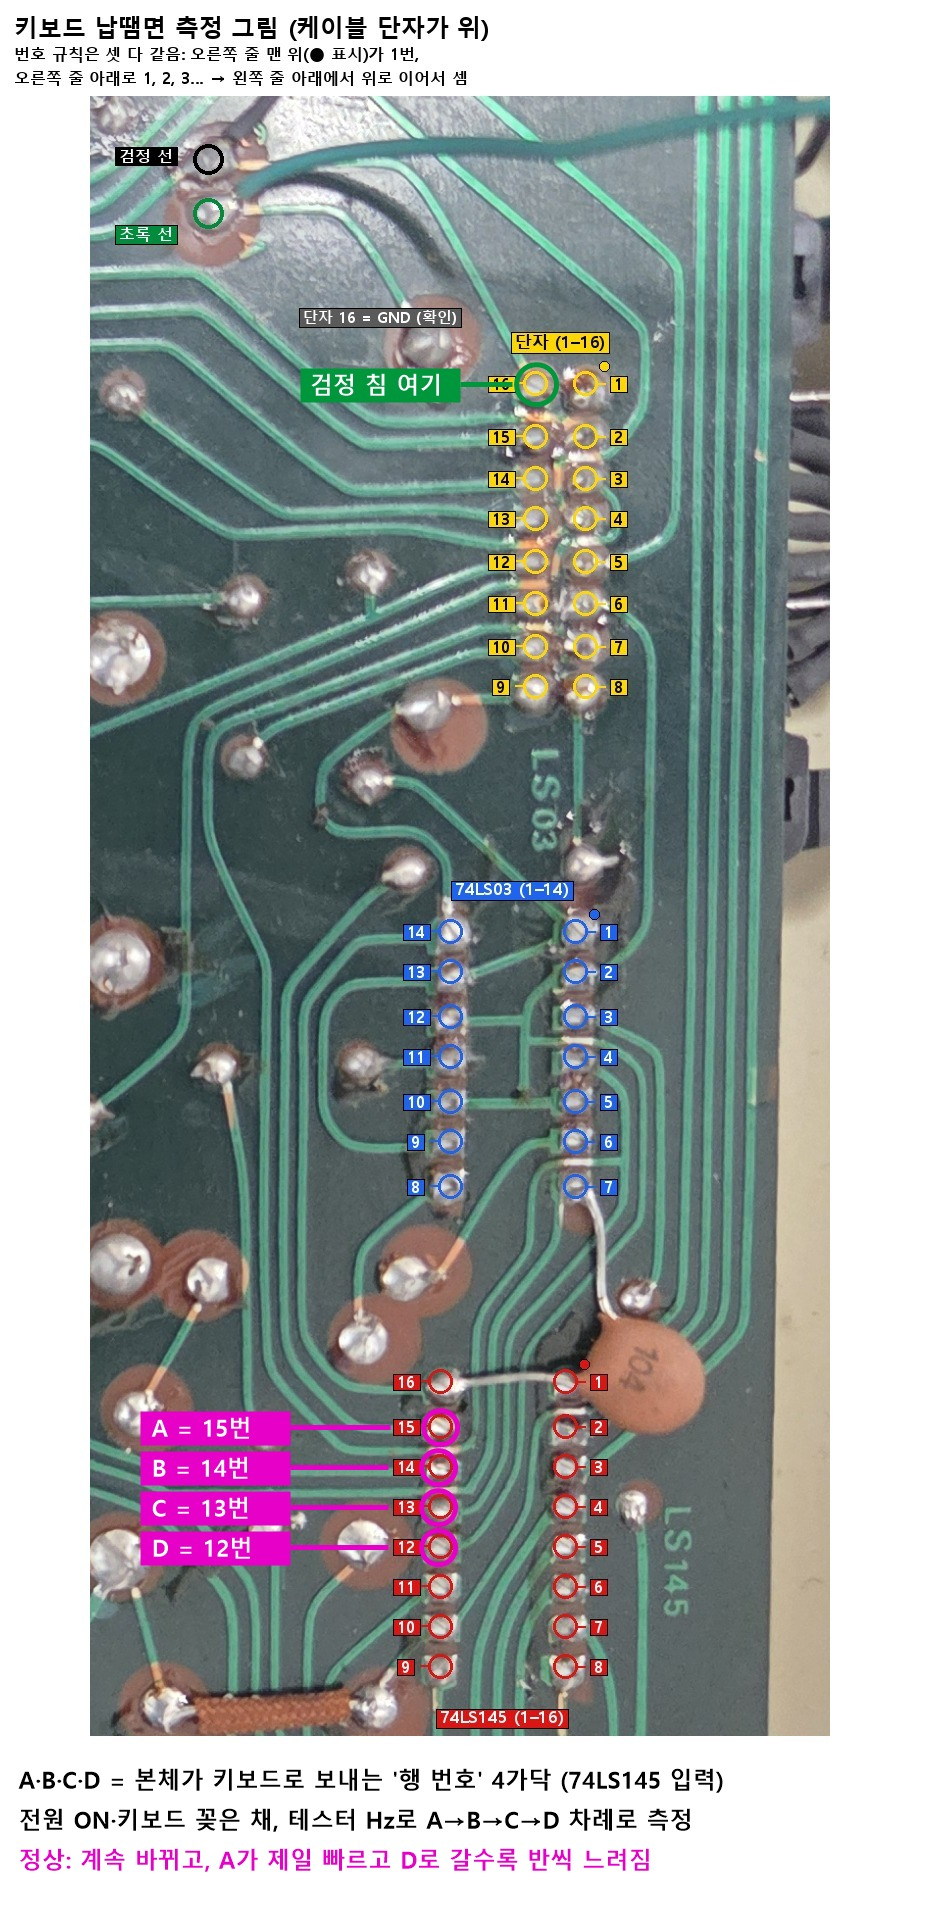
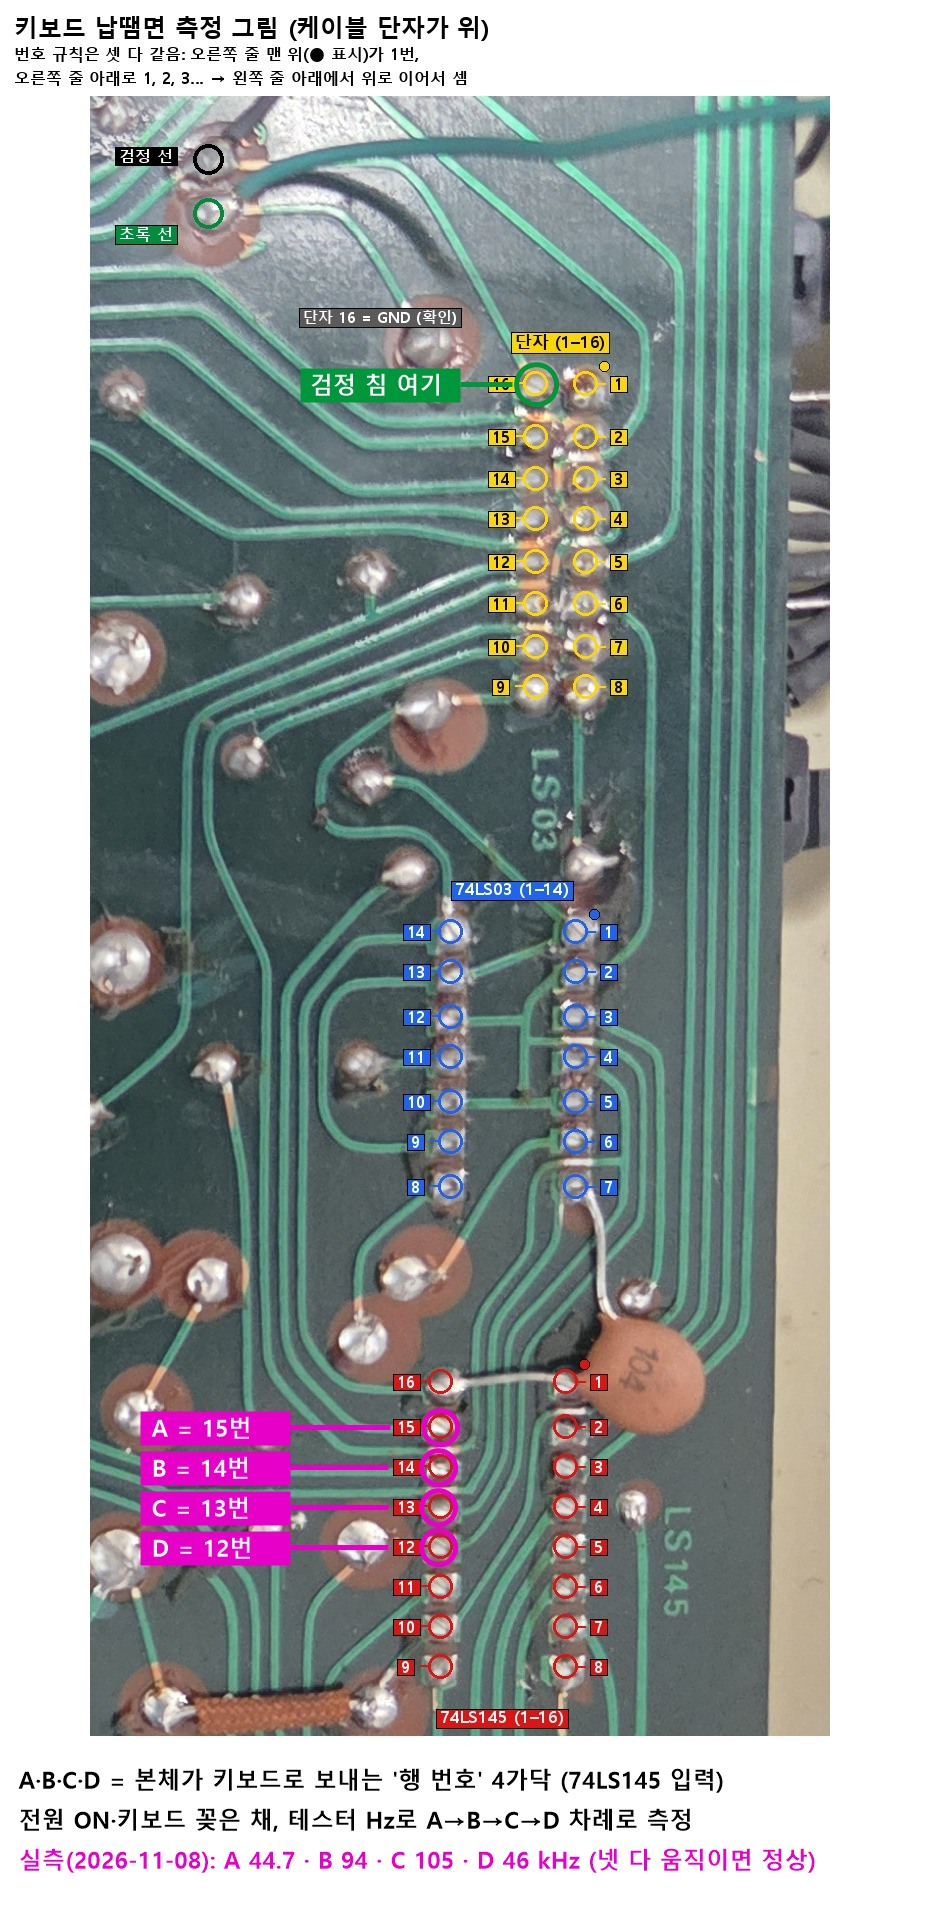
필요 없는 분석 그림 정리: 틀린 값·끝난 검사용 그림 4장과 생성 스크립트 2개 삭제, kbd_scan_abcd 안내 문구를 실측값으로 수정, 문서 링크 정리

Changed region(s): [[0.0309, 0.9596, 0.8638, 0.9906]]

diff --git a/docs/08-repair-log.md b/docs/08-repair-log.md
@@ -31,7 +31,7 @@
 - 키 매트릭스처럼 **아주 짧은 펄스는 Hz로 못 셈**(0Hz로 나옴). 대신 **DC V로 누름/뗌 평균 전압 비교**가 확실함.
 - 74LS145 출력은 오픈 컬렉터 → 키를 안 누르면 떠 있어서 값이 의미 없음.
 - 테스터 **"O.L"** = 안 통함(측정 범위 초과). 0Ω과 반대.
-- 측정 그림: 스캔 신호 [`analysis/kbd_scan_abcd.jpg`](../analysis/kbd_scan_abcd.jpg), 전원 [`analysis/kbd_vcc_check.jpg`](../analysis/kbd_vcc_check.jpg), RESET 접점 [`analysis/kbd_reset_stuck_check.jpg`](../analysis/kbd_reset_stuck_check.jpg).
+- 측정 그림: 스캔 신호·74LS145 핀 위치 [`analysis/kbd_scan_abcd.jpg`](../analysis/kbd_scan_abcd.jpg). (전원·RESET 접점 측정용 그림과 케이블 검사표·옛 결선표는 틀린 값/끝난 검사라 2026-11-08 삭제, git 기록에 있음)
 
 ### 같은 날 전원 켜짐 증상
 
@@ -62,7 +62,7 @@
     - **짝이 안 나온 것**: 구멍 2(재확인 필요)·7·14 / 키보드 단자 **1·10·11·15**. → 단자 10(RESET 열)·11(추가 선택선)·1·15가 케이블로 본체에 안 가는 것으로 보임 = **RESET과 그 열의 키가 안 먹는 이유와 맞음** (추정). 구멍 2·7·14 뒤에 전선이 붙어 있는지(붙어 있으면 끊김) 확인 필요.
     - **커넥터 뒷면 사진 (사용자)**: [`232814`](../photos/keyboard/20261107_232814_cable-connector-back_text-side-row.jpg) 글자(4K26S) 면 쪽 줄(구멍 1–8) = **8칸 모두 전선 있음**. [`232804`](../photos/keyboard/20261107_232804_cable-connector-back_row-bare-pins.jpg)·[`232822`](../photos/keyboard/20261107_232822_cable-connector-back_row-bare-pins-2.jpg) 반대쪽 줄(구멍 9–16) = **2칸이 전선 없이 핀만** (줄 한쪽 끝 1칸 + 그 끝에서 6번째 1칸) → 구멍 번호로는 **9와 14**로 판단 (16·11은 단자와 통전 확인됐으므로 반대 방향은 불가). 사진 방향 기준 판단, 확인 필요.
     - 판단: 구멍 **14 = 원래 선 없음**, 구멍 9 = GND(8과 J10에서 같은 GND라 선 없어도 됨). 구멍 **2·7 = 전선은 있는데 키보드 단자와 안 통함 → 끊김 가능성 높음**. 남는 키보드 단자 1·10·11·15 중 2개가 이 두 선일 것으로 추정. 나머지 2개는 케이블에 선 자체가 없음(가닥 수 부족) — 원래 안 쓰는 선인지 미확인.
-    - **규칙 발견**: 측정 12개 중 10개가 **단자 번호 = 구멍 번호 + 8 (16 넘으면 −16)**. 이 규칙으로 예상: **구멍 2 ↔ 단자 10(RESET 열), 구멍 7 ↔ 단자 15** (둘 다 뒤에 선 있음 → 끊김 추정). 예외: 구멍 3 ↔ 단자 6(행 D, 규칙상 11), 구멍 14 빈칸(규칙상 6). → D가 원래 자리(구멍 14)가 아닐 수 있음, 확인 필요. 결선표 [`analysis/kbd_cable_wiring_expected.jpg`](../analysis/kbd_cable_wiring_expected.jpg).
+    - **규칙 발견**: 측정 12개 중 10개가 **단자 번호 = 구멍 번호 + 8 (16 넘으면 −16)**. 이 규칙으로 예상: **구멍 2 ↔ 단자 10(RESET 열), 구멍 7 ↔ 단자 15** (둘 다 뒤에 선 있음 → 끊김 추정). 예외: 구멍 3 ↔ 단자 6(행 D, 규칙상 11), 구멍 14 빈칸(규칙상 6). → D가 원래 자리(구멍 14)가 아닐 수 있음, 확인 필요. (이 규칙에 따른 옛 결선표 그림은 결론이 틀려 삭제. 맞는 결선은 05 문서)
     - **키보드 쪽 커넥터 뒷면 사진 (사용자)**: [`233618`](../photos/keyboard/20261107_233618_kbd-side-connector_back-pins.jpg), [`233729`](../photos/keyboard/20261107_233729_kbd-side-connector_back-pins-2.jpg). 옆에서 본 줄에서 **전선 없는 핀 2개**: 맨 위 칸과 위에서 6번째 칸 → 위치로 보아 **단자 1과 단자 11** (측면 사진이라 줄 판정은 추정). → 단자 1·11 = 케이블에 선 없음 (본체 쪽 빈칸 구멍 9·14와 짝), **단자 10·15에는 선이 있음** → 본체 쪽 구멍 2·7에도 선이 있는데 안 통함 = **케이블 안에서 두 가닥 끊김으로 판단 (사용자도 같은 결론)**. 색깔로 양 끝 확인하면 확정.
     - **2026-11-08 사용자: "케이블에는 문제 없다"** → 구멍 2↔단자 10, 구멍 7↔단자 15도 통하는 것으로 이해 (확인 필요). 그러면 14개 중 13개가 규칙과 맞고 **구멍 3↔단자 6(행 D)만 예외**. 구멍 3과 14는 **같은 줄 옆 칸** → D 선을 옆 핀(3)에 잘못 단 것으로 추정 (**이후 철회** — 원래 짝 키보드의 공장 배선이고 키보드 정상 동작 확인. 안내 그림 `kbd_cable_d_wire_move.jpg`는 혼동을 막기 위해 삭제). 맞다면 행 번호가 틀어져 RESET(행 2)·대부분 키가 안 먹는 증상과 일치. 확인: 전원 켠 상태에서 구멍 14 뒤 맨 핀의 Hz (행 A와 비슷하게 나오면 확정).
     - **2026-11-08 사용자 사진·설명**: 케이블 16핀 중 **14핀은 전선 연결, 2핀만 비어 있는 상태 그대로였음**(누가 손댄 흔적 아님). 사진 [`전체`](../photos/keyboard/20261108_081101_cable-whole-coiled.jpg), [`양쪽 커넥터`](../photos/keyboard/20261108_081800_cable-both-connectors.jpg), [`본체 쪽 커넥터, 빈 핀 2개`](../photos/keyboard/20261108_081926_board-side-connector_2-bare-pins.jpg). 빈 핀 2개는 앞서 측정한 구멍 9·14와 같은 줄 위치로 보이나, 비스듬한 사진이라 어느 줄(왼/오)인지는 사진만으로 확정 못 함. 케이블이 수작업 배선이라 "처음부터 D가 3번"이었을 수도 있음 → 이 키보드가 원래 이 본체 짝인지 모르므로, 땜질 옮기기 전에 **본체 J10 쪽에서 어느 핀이 D를 내보내는지** 먼저 측정해서 결정.
@@ -71,13 +71,13 @@
     - **2026-11-08 사용자 재측정: 구멍 2↔단자 10, 구멍 7↔단자 15 모두 통함** → 2026-11-07의 "두 가닥 끊김" 판단은 측정 실수였던 것으로 정정. **케이블 14가닥 모두 정상 (확정).**
     - **2026-11-08 74LS145 입력 Hz (전원 ON, 키보드 연결, 검정 침 단자 16, 사용자)**: 15번(A) 44.7 kHz · 14번(B) 94 kHz · 13번(C) 105 kHz · 12번(D) 46 kHz. 그림 [`analysis/kbd_scan_abcd.jpg`](../analysis/kbd_scan_abcd.jpg). → **4가닥 모두 움직임 = 본체가 스캔 신호를 보내고 케이블로 잘 도착함.** 값이 반씩 줄지 않는 것은 단순 2진 카운터가 아니거나(주소선 등에서 가져옴) 테스터 Hz가 불규칙 신호를 잘못 세는 것일 수 있음 — 판단 보류. 다음: 74LS145 16번 +5V(DC), 출력 핀 1–7·9–11 Hz.
     - **2026-11-08 74LS145 16번(Vcc) = 0V (사용자, 검정 침 단자 16)** → 키보드 칩에 전원이 안 들어감. 출력이 안 나오니 매트릭스 키 전체가 안 먹는 증상과 일치 (Disp는 따로 배선된 키라 동작한다고 보면 설명됨). 16번 핀에 흰 점퍼선이 붙어 있음(사진상 104 콘덴서 쪽으로 감) → 점퍼선 납땜 불량이 1순위 후보. 확인: 단자 9(+5V) 전압, 단자 9↔16번 핀 통전, 74LS03 14번 전압.
-    - **정정 (2026-11-08 재측정, 사용자)**: 74LS145 16번 **4.9V**, 74LS03 14번 **4.9V**, 단자 9 **4.9V** → 앞의 0V는 측정 실수. **키보드 칩 전원 정상.** 그림 [`analysis/kbd_vcc_check.jpg`](../analysis/kbd_vcc_check.jpg). 다음: 74LS145 출력 1–7·9–11번 Hz.
+    - **정정 (2026-11-08 재측정, 사용자)**: 74LS145 16번 **4.9V**, 74LS03 14번 **4.9V**, 단자 9 **4.9V** → 앞의 0V는 측정 실수. **키보드 칩 전원 정상.** 다음: 74LS145 출력 1–7·9–11번 Hz.
     - **74LS145 출력 1–7·9–11번 = 모두 약 60Hz (사용자, 키 안 누름)** → 판단 불가. 74LS145 출력은 **오픈 컬렉터**(LOW로 당기기만 함)라 키를 안 누르면 출력선이 어디에도 안 이어져 떠 있음 → 테스터가 전기 배선의 60Hz 잡음을 읽은 것으로 봄. 출력이 정상인지는 **키를 누른 상태**에서 열(Y) 쪽을 재야 알 수 있음. 열 후보 = 단자 2·3·4·5·10·13·14·15 (8개, U80/U81 74LS257 2개 = 8입력과 수 맞음, 추정). 다음: (1) 키 안 누르고 열 후보 단자 DC V (본체 풀업이면 ~5V), (2) RESET 키 누른 채 74LS145 3번·단자 10 Hz.
     - **열 후보 단자 2·3·4·5·10·13·14·15 = 모두 4.9V (키 안 누름, 사용자)** → 본체 풀업 정상, 열 선 중 0V로 붙은(단락) 것 없음. 다음: RESET 키 누른 채 74LS145 3번·단자 10 Hz.
     - **RESET 키 누른 채 Hz: 74LS145 3번 60Hz, 단자 10 60Hz (사용자)** → 판단 불가. 단자 10은 DC 4.9V로 고정된 선인데도 60Hz가 나옴 = 테스터 Hz 모드가 신호 없는 곳에서도 60Hz 잡음을 읽는 것으로 보임 (확인: 순수 DC인 단자 9에서 Hz). 이후 키 눌림 확인은 **DC V로 누름/뗌 비교**(누르면 스캔 펄스 때문에 단자 10 평균 전압이 조금 내려가야 함).
     - **재측정 (사용자: Hz는 값이 자리 잡을 때까지 시간이 걸림)**: 74LS145 3번 **0Hz**, 단자 10 **0Hz**, 단자 9 **0Hz** (RESET 누름 상태로 이해, 확인 필요). → 앞의 60Hz들은 기다리기 전 값 → **74LS145 출력 1–7·9–11 "60Hz"도 무효**. 키를 눌러도 3번 출력에 펄스가 안 보임 = 74LS145 3번 출력 불량 / RESET 키 접점 불량 / 3번이 선택되지 않음 중 하나 (미확정). 확인: 전원 끄고 RESET 누른 채 74LS145 3번↔단자 10 통전, 전원 켜고 DC V 누름/뗌 비교.
     - **전원 OFF 통전: 74LS145 3번 ↔ 단자 10 = RESET을 누르든 안 누르든 항상 통함 (사용자)**. 2026-11-07에는 "누른 채" 통전만 확인했고 뗀 상태는 안 쟀음. → 가능성: (a) RESET 키가 붙어 있음(눌린 채 고착·접점 합선) → 매트릭스에 키 하나가 계속 눌린 것으로 보여 **다른 키가 안 먹는 증상과 맞을 수 있음 (추정)**, (b) 케이블 꽂힌 채라 본체 쪽 회로를 거쳐 통한 것처럼 보임. 확인: 케이블 뽑고 Ω 값으로 누름/뗌 비교, 3번 ↔ 다른 열 단자(2·3·4·5·13·14·15)도 비교.
-    - **Ω 측정: 74LS145 3번 ↔ 단자 10 = RESET 뗌 0Ω, 누름 0Ω (사용자)** → 키를 떼도 붙어 있음. RESET 접점 고착 또는 3번↔단자 10이 기판 길로 직결. 비교: 3번 ↔ 단자 2 (그림 [`analysis/kbd_reset_stuck_check.jpg`](../analysis/kbd_reset_stuck_check.jpg)).
+    - **Ω 측정: 74LS145 3번 ↔ 단자 10 = RESET 뗌 0Ω, 누름 0Ω (사용자)** → 키를 떼도 붙어 있음. RESET 접점 고착 또는 3번↔단자 10이 기판 길로 직결. 비교: 3번 ↔ 단자 2.
     - **정정 (사용자)**: 위 "0Ω"은 잘못 읽은 것. 실제 표시는 **"0.L MΩ"(= OL, 안 통함)**, RESET 누름/뗌 둘 다. 사용자는 "16번 단자"와 74LS145 3번이라고 말함 → 단자 10인지 16인지 확인 필요. 앞의 "삐 소리 항상 통함"과도 어긋남 → RESET 고착 추정은 **보류**. 케이블 뽑고 Ω로 다시: 3번↔단자 10 누름/뗌.
     - **재측정 (케이블 뽑음, Ω, 사용자)**: 74LS145 3번 ↔ 단자 10 = **RESET 누름 0Ω, 뗌 O.L** → **RESET 키 스위치·배선 정상 (확정).** 키보드 쪽 남은 의심 = 74LS145가 3번 출력을 실제로 LOW로 당기는지. 앞서 전원 ON·RESET 누름에서 3번·단자 10 모두 0Hz → 3번 줄이 한 번도 안 당겨진다는 뜻일 수 있음(74LS145 불량 또는 본체가 0010을 안 보냄). 다음: 전원 ON·케이블 연결·RESET 누른 채 단자 10 DC V, 다른 키(일반 글자 키) 누른 채 열 단자 8곳 DC V.
     - **전원 ON·케이블 연결, 단자 10 DC V: RESET 뗌 4.9V → 누름 3.8V (사용자)** → 74LS145가 3번 줄을 실제로 반복해서 LOW로 당기고, RESET 신호가 단자 10(→ 구멍 2 → J10)으로 본체까지 나감. **키보드 쪽 RESET 경로 정상 (확정).** 앞의 0Hz는 테스터 Hz가 이 짧은 펄스를 못 센 것으로 봄. → 원인은 본체 쪽(열 읽기 U80/U81 74LS257, 또는 그 뒤 처리)이나 Ctrl 등 다른 키 쪽. 다음: Ctrl 키 누른 채 열 단자 8곳 DC V로 Ctrl 위치·동작 확인.

diff --git a/docs/04-open-questions.md b/docs/04-open-questions.md
@@ -26,7 +26,7 @@
     3. (일부 완료 2026-11-08: 열 선 = 단자 2·3·4·5·10·13·14·15, 모두 4.9V 풀업. 단자 1은 케이블에 선 없음 추정) 남은 단자 1·2·3·4·5·10·13·14·15 (열 선 후보): 키를 누른 채 단자 ↔ 74LS145 출력핀(1–7, 9–11)·74LS03 출력핀(3·6·8·11) 통전
     4. ~~초록 선: Reset 키를 누른 채 초록 ↔ 검정~~ → 통전 없음 (2026-11-07). RESET 키 한쪽 다리 = 단자 16(GND) 상시 통전. 남은 것: RESET 키를 누른 채 단자 16 ↔ 단자 1–15 (누를 때만 삑 하는 단자 = RESET 선) → **해당 단자 없음** (2026-11-07). → RESET 패드(납땜면 [그림](../analysis/kbd_reset_solder.jpg) 빨간 칸 왼쪽 가운데)는 누를 때 **단자 10**과 통전 = 매트릭스 키. → 그 패드 = **74LS145 3번(Y2)** → **RESET = 행 2 × 열 단자 10 확정** (2026-11-07). 같은 방법(키 누른 채 패드 ↔ 단자, 반대 패드 ↔ 칩 출력)으로 다른 키도 찾을 수 있음. 다음: 납땜면 RESET 스위치 두 패드 사이를 누른 채 직접 통전(스위치 자체 동작 확인) → 동작하면 GND 아닌 쪽 패드 ↔ 초록 선·저항 다리·74LS145/74LS03 모든 핀. 초록·검정 선 용도는 미확인
     6. **(선택, 보류)** Disp·Ctrl 키의 행 × 열 — 사진 추정 위치에서 패드를 찾기 어려워 보류 (2026-11-07). 하려면 해당 부분 납땜면 근접 사진으로 패드부터 특정할 것. 목적: Disp만 반응하고 Ctrl+RESET이 안 먹는 원인이 "본체가 일부 열만 못 읽음"인지 가르기
-    5. **(완료 2026-11-08: 14가닥 전부 확인, 정상)** 케이블 양 끝 대응: 키보드 단자 번호 ↔ 본체 쪽 커넥터 구멍 (본체 J10 GND 끝 기준). 꽂는 방향은 결정됨 ([`analysis/kbd_plug_direction.jpg`](../analysis/kbd_plug_direction.jpg)). 본체 쪽 커넥터 구멍 번호 기준: [`analysis/kbd_cable_holes_numbered.jpg`](../analysis/kbd_cable_holes_numbered.jpg) (1번 +5V, 8·9번 GND). 남은 것: 2–7번, 10–16번 대응 (단선 확인 겸). 검사 안내·기록표: [`analysis/kbd_cable_check.jpg`](../analysis/kbd_cable_check.jpg)
+    5. **(완료 2026-11-08: 14가닥 전부 확인, 정상)** 케이블 양 끝 대응: 키보드 단자 번호 ↔ 본체 쪽 커넥터 구멍 (본체 J10 GND 끝 기준). 꽂는 방향은 결정됨 ([`analysis/kbd_plug_direction.jpg`](../analysis/kbd_plug_direction.jpg)). 본체 쪽 커넥터 구멍 번호 기준: [`analysis/kbd_cable_holes_numbered.jpg`](../analysis/kbd_cable_holes_numbered.jpg) (1번 +5V, 8·9번 GND). 결과 표: [05 "키보드 단자 J10"](05-interface-pinouts.md)
         - **측정 (2026-11-07, 사용자)**: 본체 쪽 커넥터에서 **글자(JAE…) 찍힌 면 쪽 줄**의 양 끝 구멍 — 한쪽 끝 = GND(키보드 단자 16), 반대쪽 끝 = +5V(키보드 단자 9). (안내 그림 2번 사진 기준 위 = GND, 아래 = +5V.) → GND·+5V가 같은 줄 양 끝. **J10 +5V 확인 (2026-11-07, 사용자)**: 케이스 쪽 끝 **왼쪽 핀(SIP·U80 반대쪽 줄)** = +5V. → 꽂는 방향 결정: 커넥터 글자 면 줄 → J10 왼쪽 줄, GND 끝 → 케이스 반대쪽. 그림 [`analysis/kbd_plug_direction.jpg`](../analysis/kbd_plug_direction.jpg). 꽂은 뒤 전원 켜기 전 통전 확인(단자 9↔슬롯1 25, 단자 16↔슬롯1 26, 9↔16 안 통함). J10 GND는 케이스 반대쪽 끝 2핀이므로, 예상대로 J10 +5V가 케이스 쪽 끝이면 글자 면 줄을 그 +5V 핀 줄에 맞추고 GND 끝을 케이스 반대쪽으로 꽂으면 됨.
 - [ ] **키보드 방식**: 키보드 안에 74LS145·74LS03만 있음 → 본체가 매트릭스를 직접 스캔 (2026-11-07 분해, 2026-11-08 스캔 신호 측정으로 확인). 열 선 8가닥(추정). 행 번호 4비트를 내보내는 본체 칩, 74LS03 용도, 초록·검정 직결 선이 어느 키인지(Disp 추정, RESET 아님) 미확인
 - [ ] **모델명 "ZPC-40"**: 키보드 명판에 "PERSONAL COMPUTER ZPC-40". 본체 모델명인지 확인 (케이스 라벨·ROM 문자열)
